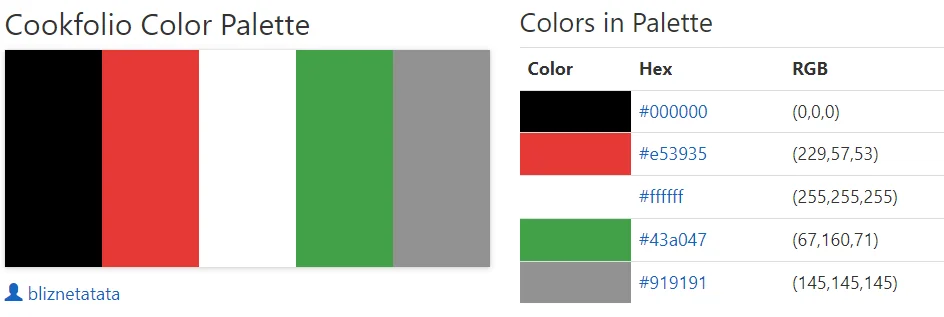
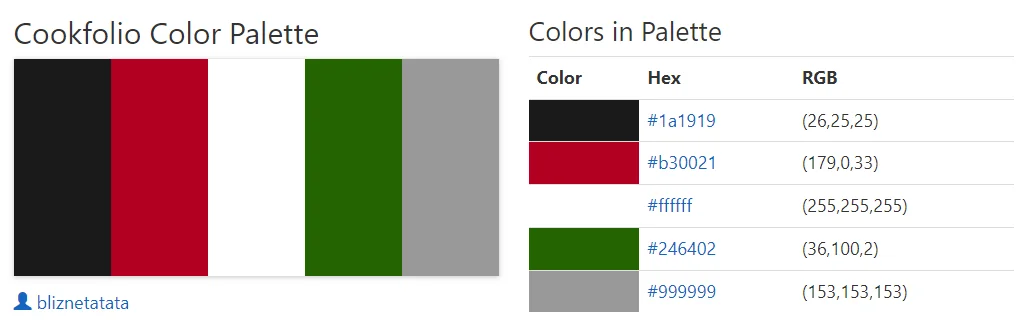
docs: update user experience section in README file

diff --git a/README.md b/README.md
@@ -1,10 +1,10 @@
 # Cookfolio
 
-<!--add responsive mock-up image-->
+![Responsive Mock-up](app/static/images/docs/cookfolio-mock-up.webp)
 
 #### **By Silviya Hristova**
 
-<!--add link-->
+[Click here to view the live web application](https://cookfolio-dc589e41eddc.herokuapp.com/)
 
 Cookfolio is a recipe management website that allows users to create, edit and organize their own recipes, plan weekly meals and discover new recipes. The application is designed to help users manage their cooking and meal planning in a simple and intuitive way.
 
@@ -43,7 +43,8 @@ The website focuses on simplicity, usability and accessibility, using a mobile-f
 
 Cookfolio is developed as part of Code Institute Level 5 Diploma in Web Application Develoment and demostrate full CRUD functionality, relational database design, and server-side logic using Python and Flask.
 
-<!--add link-->
+Click [**here**](https://cookfolio-dc589e41eddc.herokuapp.com/) to view the live website.
+
 
 ## User Experiences
 
@@ -82,7 +83,7 @@ Cookfolio is developed as part of Code Institute Level 5 Diploma in Web Applicat
 #### **Site owner (Admin):**
 
 - As an admin, I want to access an admin dashboard.
-- As an admin, I want to view all registered users.
+- As an admin, I want to view all support messages, that users sending.
 - As an admin, I want users to register and log in.
 - As an admin, I want each recipe to be linked to a specific user so that ownership is enforced.
 - As an admin, I want to prevent users from editing or deleting recipes they do not own.
@@ -106,40 +107,50 @@ The project aims to demostrate the following objectives:
 - Design a relational database schema that supports structures data storage.
 - Apply a mobile-first approach to ensure the website is accessible and usable across different devices.
 - Follow accessibility best practices, including clear navigation, readable typography and sufficient colour contrast.
-- Prrduce clear planning documentation, wireframes, page-flow diagrams and database schema design.
+- Produce clear planning documentation, wireframes, page-flow diagrams and database schema design.
 - Maintain a clean codebase using version control and regular commits.
 
 ### **Scope**
 
-The Cookfolio website is designed to allow users to manage their personal recipes, organize cooking content, and plan meals efficiently. The site includes core features that allows users to create and manage recipes, while also providing additional tools such as recipe discovery and meal planning to enhance the overal user experience.
+The Cookfolio website is designed to allow users to manage their personal recipes, organize cooking content, and plan meals efficiently. The site includes core features that allows users to create and manage recipes and meal plans, while also providing additional tools such as recipe discover, quick access links, empty states and support form to enhance the overal user experience.
 
 #### **Core features**
 
 The following core features are implemented in the Cookfolio application:
 
-- User Authentication - user can create an account, log in, and log out anytime.
+- User Authentication - user can create an account, log in, and log out anytime and reset password.
+
+- Secure autentication and protected routes.
 
 - Recipe Management (CRUD functionality) - users can create, view, edit and delete recipes. Each recipe contains details such as title, ingredients, instructions, preparation time, servings and category.
 
-- Recipe Category - Recipes can be organised into categories such as breakfast, lunch, dinner or desserts to make browsing esier.
+- Recipe Category - Recipes can be organised into categories such as breakfast, lunch, dinner or desserts/snack to make browsing easier.
 
 - Recipe Image Upload - users can upload images for their recipes, allowing each recipe to include a visual representation of the dish.
 
 - Recipe Search and Filtering - users can search for recipes by title or category to find quickly recipes they need.
 
+- Meal Planner (CRUD functionality) - users can create, view, edit and delete meal plans. User can assign recipes to specific days of the week, allowing them to plan meals in advance. User cannot add, edit or delete past meals, but is able to view them.
+
+- Grocery list generation based on meal plans.
+
+- Responsive mobile-first design for mobile, tablet and desktop devices.
+
+- Admin-only access for admin dashboard.
+
 #### **Additional features**
 
 To enhance the user experience, the following additional features are implemented in Cookfolio website:
 
-- Meal Planner - users can assign recipes to specific days of the week, allowing them to plan meals in advance.
+- API recipe search - two API have been implemented for best expirience TheMealDB and Spoonacular.
 
-- Recipe Discovery - users can explore new recipes using an external recipe API, allowing them to discover new dishesh and ideas.
+- Recipe Discover - users can explore new recipes using an external recipe API, allowing them to discover new dishesh and ideas.
 
-- Grocery List - Ingredients from planned recipes can be used to generate a grocery list to assist the users with shopping.
+- Dashboard with quick-access navigation 
 
-- Support Page - users can send support messages through a contact form f they encounter issues or have questions about the application.
+- Empty-state dashboard sections
 
-- Analytics Dashboard - the dashboard provides insights such as the number of recipes created and etc.
+- Support Page - users can send support messages through a contact form if they encounter issues or have questions about the application.
 
 #### **Error Handling**
 
@@ -154,17 +165,19 @@ The website includes custom error pages to improve the user experience:
 
 ### **Structure**
 
-The structure of Cookfolio is designed to provide a clear and logical flow based on the user`s authentication state. The website separates public pages from authenticated user features, allowing visitors to explore the website before creating an account, while providing registered users with access to advances features such as recipe management and meal planning. 
+The structure of Cookfolio is designed to provide a clear and logical flow based on the user`s authentication status and interaction flow. The website separates guest and authenticated user experiences, allowing visitors to explore the website before creating an account, while providing registered users with access to advances features such as recipe management and meal planning and grocery list generation. 
 
-Unathenticated users can access the Home page, where the purpose of the site is explained, and are guided toward the Login and Registration pages. These pages provide a simple and focused authentication flow without distractions.
+Unathenticated users can access the Home page, Login page, Registration page, Discover page and Support page. The Home page introduces the purpose of the application and guides users toward account creation and autentication through clear call-to-action section and navigation links.
 
-Once authenticated, users are redirected to the Dashboard, which acts as the main hub of the website. From the dashboard, users can view all of their recipes and access core actions such as adding, editing, or deleting recipes. The dashboard layout ensures that content management actions are easy to locate and perform.
+Once authenticated, users are redirected to the Dashboard, which acts as the central hub of the application. From the dashboard, users can quickly navigate to key areas including My recipes, Add Recipe, Meal Planner, Grocery list, Discover Recipes and Support pages. The dashboard structure is designed to prioritise commonly used actions and improve usability.
 
-Form-based pages such as Add Recipe, Edit Recipe, and Support follow a consistent layout. This helps users recognise familiar patterns and easy interacting with the website.
+Recipe management follows a structured CRUD workflow, allowing user to create, view, edit and delete recipes through consistent form layouts and navigation. Recipe detail page provide structured information including ingredients, instruction, category, preparation time and servings.
 
-Navigation is handled through a navigation bar and a mobile-friendly hamburger menu, providing access to key areas such as dashboard, support page, log out. Logging out ends the user session and redirects the user back to the Home page.
+Meal planning functionality is structured around daily and weekly planning workflows. Users can organize meals into categories such as Breakfast, Lunch, Dinner and Dessert/Snack, while grocery list generation is connected to planned meals to support a smooth user experience.
 
-The overall structure supports a predictable and intuitive user journey, ensuring that users can move through the website efficiently. 
+Navigation is handled through a navigation bar and a mobile-friendly hamburger menu, providing access to key areas such as dashboard, meal planner, support page, log out. Logging out ends the user session and redirects the user back to the Login page.
+
+The overall structure supports a predictable, intuitive and responsive user journey, ensuring that users can move through the website efficiently. 
 
 A custom 403, 404 and 500 error pages are implemented to handle errors. The pages provide clear feedback to users and offers navigation back to the Home or Dashboard page, ensuring smooth and controlled user experience.
 
@@ -224,11 +237,11 @@ Wireframes were created using Figma to plan the structure of each page. These wi
 
 The color palette for Cookfolio was selected to create a warm, inviting,and food-insired visual dentity. The colors were choosen to be associated with cooking, freshness and appetite while maintaining good readability and accessibility across devices. The palette combines warm and natural tones associated with food, ingredients and kitchen environments. Red colour is strongly associated with food and appetite. It is commonly used in food branding because it attracts attention and simulates hunger. In Cookfolio red is used for primary buttons and important actions such as adding and saving recipes. Green colour represents freshness, vegetables and healthy ingredients. It helps balance the strong red tone. The colour is used for confirmation actions and success messages. A light grey background colour was selected to create a clean and neutral interface that allows recipe and images to stand out without overwhelming the user. Dark grey used for body text to maintain strong readability. White colour is used to provide contrast and maintain a clean layout. The selected colours were choosen with accessibility in mind. The palette were created using the site [Color-hex.com](https://www.color-hex.com/). Tints and Shades of these colours will be used also and are created using the site [Maketintsandshade.com](https://maketintsandshades.com/).
 
-![Colour Pallette](static/images/docs/cookfolio-colorpalette.webp)
+![Colour Pallette](app/static/images/docs/cookfolio-colorpalette.webp)
 
 <details><summary>Tints and shades</summary>
 
-![Tints and shades](static/images/docs/cookfolio-tintandshades.webp)
+![Tints and shades](app/static/images/docs/cookfolio-tintandshades.webp)
 
 </details>
 